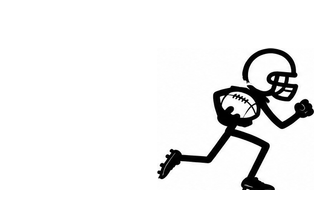
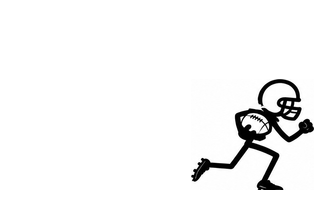
Fourth-down figures at the library scale; clock down, MORE up
Jason, 2026-09-11, on Go for it / Kick: 'Scale and head cut off problem.' The
fourth-down card was the one figure card still on the old 84% height cap: the
upright kicker stood 168px of a 200px tile with its head 22px from the top,
and both figures read a size bigger than every other card's. It now uses LOW
(66%) like the rest: kicker 132px, head 58px down; runner 111px. Art
regenerated (tools/figures.mjs).

Then: 'Move the time down a little. Move the more up a little.' The clock sits
14px under the @ (was 6px, where it touched the scores) and MORE comes up 8px.

Deployed 92620267 (811/811 tests).

Changed region(s): [[0.4545, 0.24, 0.9697, 0.96]]

diff --git a/public/screens/p6-allgames.css b/public/screens/p6-allgames.css
@@ -562,17 +562,17 @@
    flips to the up arrowhead via a rotation, which keeps one element
    authoritative about the state instead of two glyphs that can disagree. */
 .scr-p6-allgames .p6a-mid { flex: 0 0 auto; display: flex; flex-direction: column; align-items: center; gap: 2px; position: relative; }
-/* The clock, just under the @ and centred on it, out of flow - so the middle
+/* The clock under the @ (14px - Jason: "Move the time down a little"), out of flow - so the middle
    column stays as narrow as the @ and the names keep their room. */
 .scr-p6-allgames .p6a-mid > .p6a-clock {
-  position: absolute; top: calc(100% + 6px); left: 50%; transform: translateX(-50%);
+  position: absolute; top: calc(100% + 14px); left: 50%; transform: translateX(-50%);
   font-size: 12px; font-weight: 800; color: var(--accent); white-space: nowrap;
 }
 /* Its own full-width row under the teams. The @ is centred in the grid
    above, so a centred control here lands directly beneath it and costs the
    two names no width at all. */
 .scr-p6-allgames .p6a-more {
-  flex: 1 0 100%; order: 4;
+  flex: 1 0 100%; order: 4; margin-top: -8px;
   display: flex; align-items: center; justify-content: center; gap: 4px;
   font-size: 9px; font-weight: 800; letter-spacing: .08em; color: var(--dim);
   line-height: 1; white-space: nowrap;
